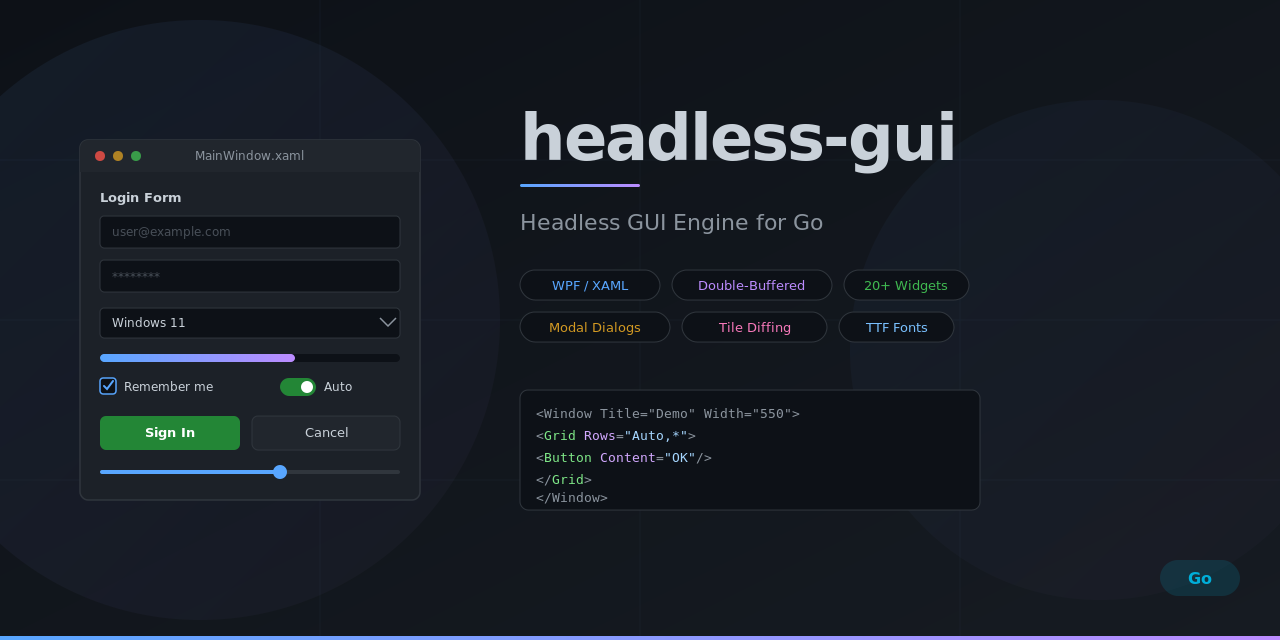
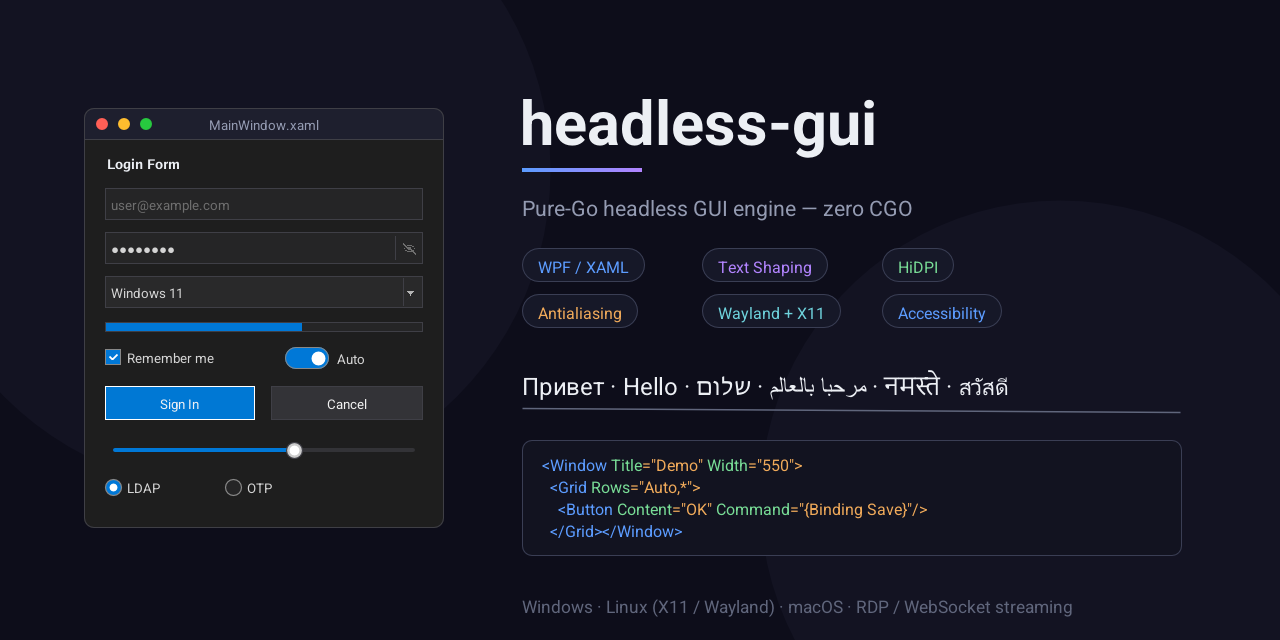
docs: refresh tagline and social preview
Tagline drops the stale Ebiten mention and reflects the current story:
pure Go, zero CGO, shaping/AA/HiDPI, delta tiles for RDP/WebSocket
streaming, native windows incl. Wayland.

The social preview is now rendered by the engine itself: a real
widget.Window with live controls, feature chips, a shaped multilingual
line (Arabic/Hebrew/Devanagari/Thai) and a syntax-colored XAML snippet.

diff --git a/README.md b/README.md
@@ -5,7 +5,7 @@
 
 # headless-gui
 
-Go-based headless GUI engine with XAML support, tile-based delta rendering, and pluggable output backends (RDP, WebSocket, native platform windows).
+Pure-Go headless GUI engine (zero CGO): WPF-style XAML, data binding, complex text shaping, antialiasing, HiDPI. Renders off-screen to 64×64 delta tiles for RDP/WebSocket streaming — or shows native windows (Win32 / X11 / Wayland / macOS).
 
 ## Overview
 
